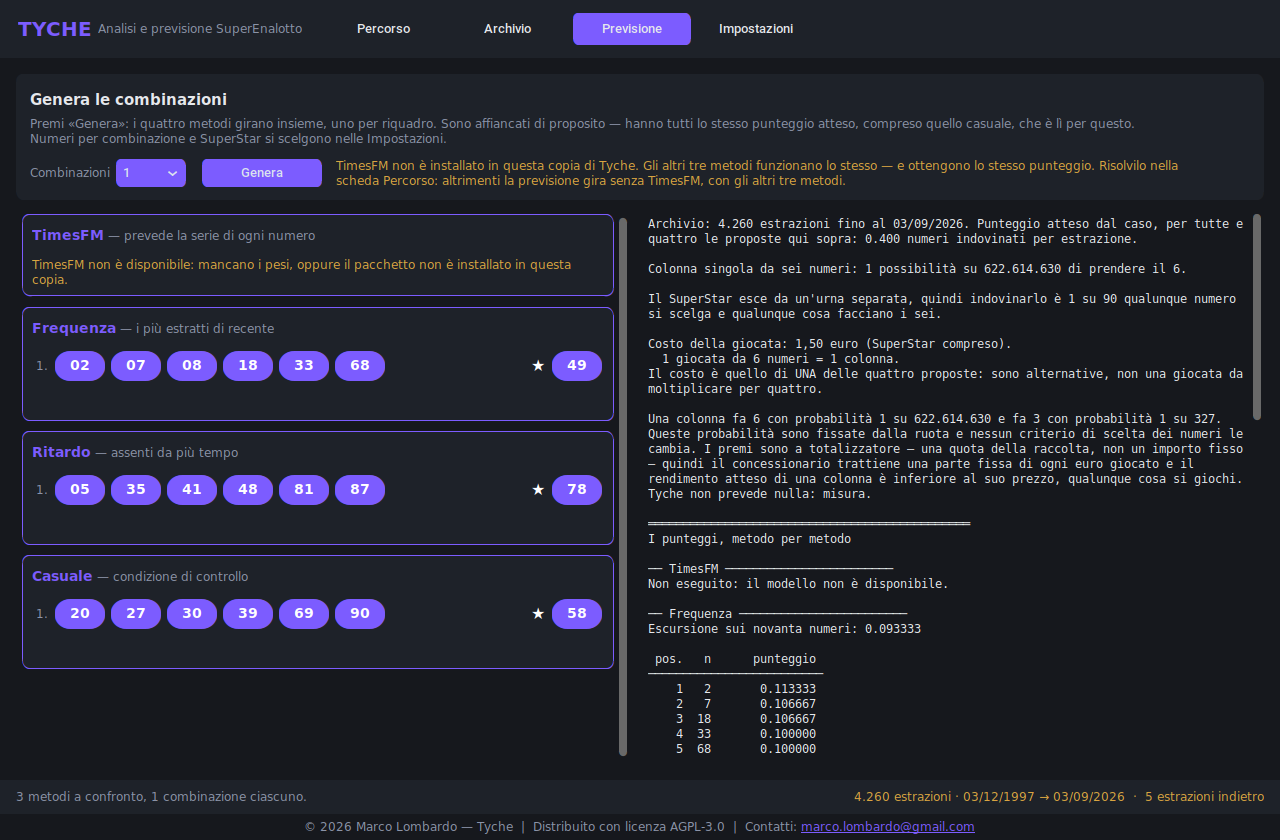
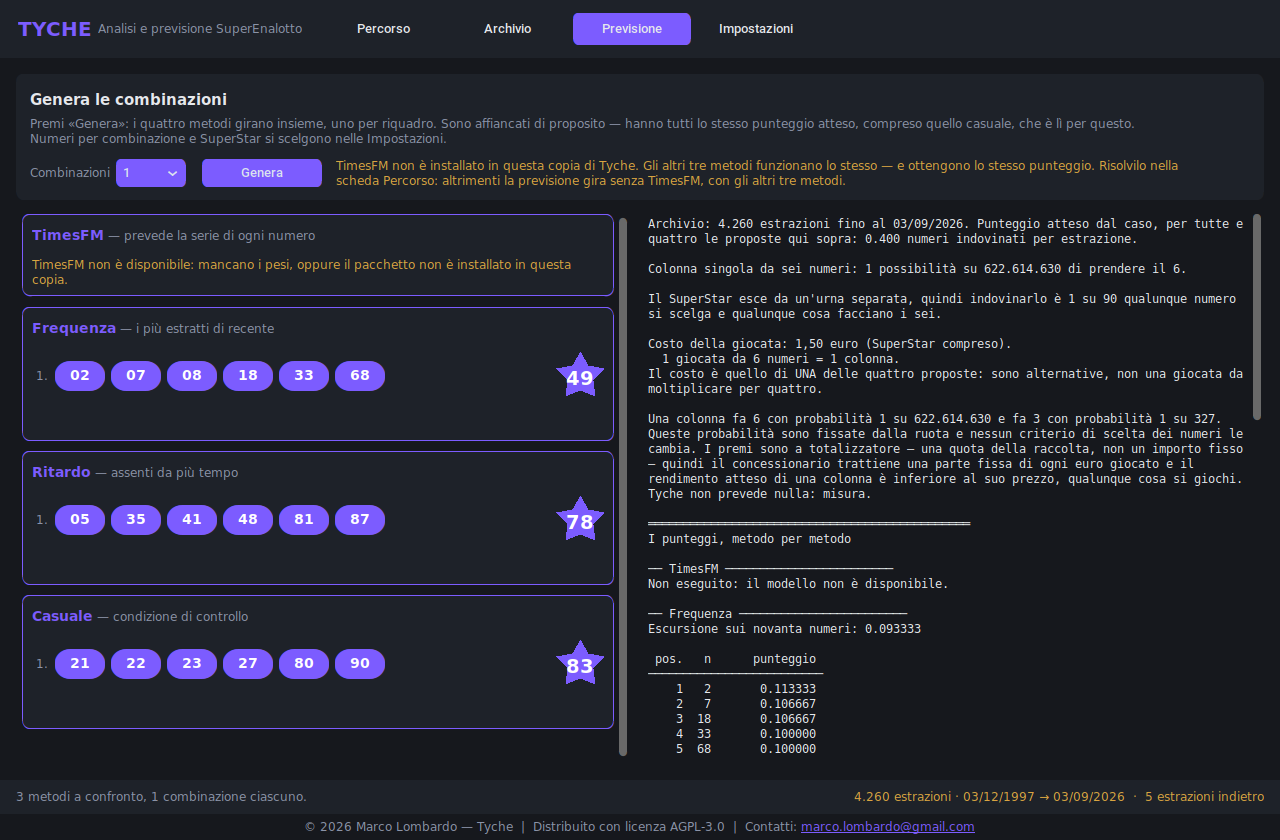
Draw the SuperStar as a star instead of naming it
A purple ball with a star character beside it says "this one is the
SuperStar" twice, in two widgets that have to be kept aligned. The badge is
now one thing: a five-pointed star in Tyche's purple with the number inside
it.

CustomTkinter draws rounded rectangles and nothing else, so it is a polygon on
a canvas. That also makes the shape testable — the test checks the geometry
rather than a character somebody's font may not carry.

Three numbers in it are not free choices. The notches stop at 55% of the
radius where a regular pentagram cuts to 38%: the elegant proportion leaves a
centre too small for two digits and the number ends up across the points. The
badge is 50px where a ball is 30, for the same reason. And the canvas is
opaque, so star_badge takes the background it sits on rather than assuming
one, or the star arrives in a grey square.

The test asserts the radii alternate — five far, five near — and not merely
that the polygon has ten vertices: a decagon has ten too and reads as a
circle. Checked by mutation, and the first version of that assertion passed
with every vertex pushed out to the same radius.

Also carries a diagnostic, not a fix, for an intermittent failure in the smoke
suite. test_timesfm_without_the_model_says_so_in_its_own_cell has now timed
out twice waiting for a prediction, both times in a full run and never alone,
and the second time the status said the worker was still on a method that
[…]

diff --git a/tests/test_gui_smoke.py b/tests/test_gui_smoke.py
@@ -137,7 +137,14 @@ def _generate(app, count: str = "1"):
         if panel._predictions:
             return panel
         time.sleep(0.02)
-    raise AssertionError(f"no prediction after waiting: {app._status.cget('text')}")
+    raise AssertionError(
+        "no prediction after waiting: "
+        f"status={app._status.cget('text')!r} busy={app._busy} "
+        f"queued={app._queue.qsize()} "
+        # Which of the two it was matters: still busy means the worker is
+        # genuinely slow, while not-busy with a full queue means the result
+        # arrived and the main loop never drained it.
+    )
 
 
 def test_window_opens_with_every_panel(app):
@@ -951,36 +958,62 @@ def test_every_settings_field_is_actually_on_the_screen(app):
         )
 
 
-def test_the_superstar_rides_on_the_numbers_row_with_a_star_and_no_label(app):
-    """One row, right-aligned, a star instead of the word.
+def test_the_superstar_is_a_purple_star_with_its_number_in_it(app):
+    """One widget on the numbers' own row, right-aligned, and star-shaped.
 
-    "SuperStar" cost seventy pixels the combinations wanted and a whole row of
-    its own; the star says the same thing in the width of a character. And it
-    is packed last so that a window too narrow for a twelve-number system
-    loses the star rather than the numbers — which is what "if there is room"
-    has to mean to be true.
+    "SuperStar" as a label cost seventy pixels the combinations wanted and a
+    row of its own. A ★ character beside an ordinary purple ball replaced it
+    and still said the same thing twice, in two widgets. CustomTkinter draws
+    rounded rectangles and nothing else, so the badge is a Tk canvas with a
+    real polygon on it — which is also what makes this test able to check the
+    *shape* rather than a character somebody's font may not have.
     """
-    import customtkinter as ctk
+    import tkinter
 
-    from gui.prediction_panel import SUPERSTAR_MARK
+    from gui.theme import ACCENT
 
     app.settings["predict_superstar"] = True
     panel = _generate(app)
 
     cell = panel._cells["frequenza"]
     first_row = cell.balls.winfo_children()[0]
-    stars = [
-        child for frame in first_row.winfo_children()
-        if isinstance(frame, ctk.CTkFrame)
-        for child in frame.winfo_children()
-        if isinstance(child, ctk.CTkLabel) and SUPERSTAR_MARK in child.cget("text")
+    canvases = [
+        child for child in first_row.winfo_children()
+        if isinstance(child, tkinter.Canvas)
     ]
-    assert stars, "the SuperStar is not on the same row as the numbers"
-    assert stars[0].cget("text_color") == "#ffffff"
+    assert canvases, "the SuperStar is not on the same row as the numbers"
+    canvas = canvases[0]
 
-    texts = _all_label_texts(cell)
-    assert not any("SuperStar" in t for t in texts), (
-        "the star is there to replace that label, not to sit beside it"
+    polygons = [i for i in canvas.find_all() if canvas.type(i) == "polygon"]
+    assert len(polygons) == 1
+    assert canvas.itemcget(polygons[0], "fill") == ACCENT
+    # Ten vertices is not enough to prove a star — a decagon has ten too, and
+    # reads as a circle. The radii have to *alternate*: five far, five near.
+    # Checked by mutation, because the first version of this assertion passed
+    # with every vertex pushed out to the same radius.
+    import math
+
+    coords = canvas.coords(polygons[0])
+    assert len(coords) == 20
+    centre = int(canvas.cget("width")) / 2
+    radii = [
+        math.hypot(x - centre, y - centre)
+        for x, y in zip(coords[::2], coords[1::2], strict=True)
+    ]
+    points, notches = radii[::2], radii[1::2]
+    assert min(points) > max(notches) * 1.4, (
+        f"the notches are not deep enough to be a star: {radii}"
+    )
+
+    texts = [i for i in canvas.find_all() if canvas.type(i) == "text"]
+    assert len(texts) == 1
+    shown = canvas.itemcget(texts[0], "text")
+    assert int(shown) == panel._predictions["frequenza"].superstar
+    assert canvas.itemcget(texts[0], "fill") == "#ffffff"
+
+    texts_in_cell = _all_label_texts(cell)
+    assert not any("SuperStar" in t for t in texts_in_cell), (
+        "the badge is there to replace that label, not to sit beside it"
     )
 
 

diff --git a/gui/widgets.py b/gui/widgets.py
@@ -18,6 +18,7 @@ undone later.
 
 from __future__ import annotations
 
+import math
 import tkinter
 
 import customtkinter as ctk
@@ -145,3 +146,58 @@ def ball_row(parent, numbers, size: int = 38) -> ctk.CTkFrame:
             font=ctk.CTkFont(family=ui_font_family(), size=14, weight="bold"),
         ).pack(side="left", padx=3)
     return row
+
+
+
+# How deep the star's notches cut. A regular pentagram is 0.382, which is
+# elegant and leaves a centre too small to put two digits in: the number would
+# sit over the points rather than inside the shape. 0.55 is a fatter star —
+# still unmistakably a star, with a body that holds "49".
+_STAR_INNER = 0.55
+
+
+def _star_points(centre: float, outer: float, inner: float, points: int = 5) -> list[float]:
+    """Flat x,y pairs for a star with one point straight up.
+
+    ``-pi/2`` is what puts that point at the top; without it the polygon comes
+    out rotated and reads as a cog.
+    """
+    coords: list[float] = []
+    for index in range(points * 2):
+        radius = outer if index % 2 == 0 else inner
+        angle = -math.pi / 2 + index * math.pi / points
+        coords += [centre + radius * math.cos(angle), centre + radius * math.sin(angle)]
+    return coords
+
+
+def star_badge(parent, number: int, size: int = 42, background: str = BG_PANEL):
+    """The SuperStar: its number inside a star in Tyche's own purple.
+
+    **A shape rather than a glyph, and a canvas because CustomTkinter has no
+    star.** ``CTkLabel`` draws a rounded rectangle and nothing else, so the
+    first version put a ★ character beside an ordinary purple ball — which
+    said "this one is the SuperStar" in two pieces where one will do. Tk's
+    canvas draws polygons natively, so the badge is a real star with the
+    number in the middle of it and no second widget to align.
+
+    ``background`` has to match what the badge sits on: a canvas is opaque and
+    a wrong colour here shows as a grey square around the star.
+    """
+    canvas = ctk.CTkCanvas(
+        parent, width=size, height=size, bg=background,
+        highlightthickness=0, bd=0,
+    )
+    centre = size / 2
+    canvas.create_polygon(
+        _star_points(centre, centre, centre * _STAR_INNER),
+        fill=ACCENT, outline="",
+    )
+    # A point-up star carries more of its area below the centre of its
+    # bounding circle, so text placed at the geometric middle reads high. The
+    # nudge is small and it is the difference between "in the star" and
+    # "floating in it".
+    canvas.create_text(
+        centre, centre + size * 0.04, text=f"{number:02d}", fill="#ffffff",
+        font=(ui_font_family(), max(11, round(size * 0.28)), "bold"),
+    )
+    return canvas

diff --git a/gui/prediction_panel.py b/gui/prediction_panel.py
@@ -59,6 +59,7 @@ from gui.widgets import (
     fit_text,
     heading_font,
     section,
+    star_badge,
 )
 
 _METHOD_LABELS = {
@@ -68,11 +69,11 @@ _METHOD_LABELS = {
     "casuale": "Casuale (la condizione di controllo)",
 }
 
-# The star that marks the SuperStar. No label beside it: a row of six purple
-# balls and a seventh needs one thing said about the seventh, and a symbol
-# says it in the width of a character where "SuperStar" costs seventy pixels
-# the combinations want.
-SUPERSTAR_MARK = "★"
+# The SuperStar's badge, in pixels. Larger than a ball (30) because a star's
+# usable middle is a fraction of its bounding box: at 30 the number would sit
+# across the points instead of inside the shape.
+SUPERSTAR_SIZE = 50
+
 
 # What each cell says under the method's name. Short: the cell is a quarter of
 # the window and the numbers are the point.
@@ -225,22 +226,20 @@ class _MethodCell(ctk.CTkFrame):
     def _star(self, line, number: int) -> None:
         """The SuperStar, on the numbers' own row and right-aligned.
 
+        **One widget, not two.** The first version put a ★ character beside an
+        ordinary purple ball, which says "this one is the SuperStar" in two
+        pieces where one will do; the badge is now a star-shaped thing with
+        the number inside it.
+
         Packed *after* the combination and to the right, which is what makes
         "if there is room" true rather than a hope: pack hands the first
         widget its requested width and this one takes what is left, so a
         window too narrow for a twelve-number system loses the star and not
         the numbers.
         """
-        star = ctk.CTkFrame(line, fg_color="transparent")
-        star.pack(side="right")
-        # Bold, and bigger than the body, which is the one exemption the
-        # "everything a reader reads is one size" rule has — and it applies
-        # here for the reason it exists: this is a glyph doing the job of an
-        # icon beside a 30px ball, not a word in a sentence.
-        ctk.CTkLabel(
-            star, text=SUPERSTAR_MARK, text_color="#ffffff", font=heading_font(16),
-        ).pack(side="left", padx=(0, 4))
-        ball_row(star, (number,), size=30).pack(side="left")
+        star_badge(line, number, size=SUPERSTAR_SIZE, background=BG_PANEL).pack(
+            side="right", padx=(6, 0),
+        )
 
 
 def _score_lines(prediction) -> list[str]:

diff --git a/core/version.py b/core/version.py
@@ -27,7 +27,7 @@ APP_TITLE = "Tyche — Analisi e previsione SuperEnalotto"
 
 # Bump by hand on a release. A frozen executable has no .py sources on disk
 # to derive a date from — the same reasoning as Argus's version.py.
-__version__ = "1.0.7"
+__version__ = "1.0.8"
 
 # google/timesfm-3.0-pytorch, released 31 August 2026: 330M parameters, native
 # multivariate forecasting, and the reason Tyche can hand TimesFM all 90

diff --git a/CLAUDE.md b/CLAUDE.md
@@ -1037,6 +1037,29 @@ version asserted only "more than one distinct value", which passes with every
 method but the random control collapsed onto the frequency count — checked by
 mutation.
 
+**The SuperStar's badge is a polygon, because CustomTkinter has no star.**
+1.0.8. `CTkLabel` draws a rounded rectangle and nothing else, so the first
+attempt was a ★ character beside an ordinary purple ball — the same thing said
+twice, in two widgets to keep aligned. `gui.widgets.star_badge` draws a real
+five-pointed star on a `CTkCanvas` with the number inside it.
+
+Three things about it are not free choices:
+
+- **`_STAR_INNER` is 0.55, not the 0.382 of a regular pentagram.** The elegant
+  proportion leaves a centre too small for two digits, and the number ends up
+  across the points rather than in the shape.
+- **The badge is 50px where a ball is 30**, for the same reason: a star's
+  usable middle is a fraction of its bounding box.
+- **The canvas is opaque**, so `background` has to match what it sits on or
+  the star arrives in a grey square. That is why `star_badge` takes it rather
+  than assuming `BG_PANEL`.
+
+`test_the_superstar_is_a_purple_star_with_its_number_in_it` checks the
+polygon's *radii alternate* — five far, five near — and not merely that it has
+ten vertices. A decagon has ten too and reads as a circle; the first version
+of that assertion passed with every vertex pushed out to the same radius,
+checked by mutation.
+
 **Beside «Genera» the strip says nothing when nothing is wrong.** 1.0.7, and
 the rule generalises: a status line next to a button is read on every visit,
 so it should earn that by carrying something to act on. `ModelStatus` takes

diff --git a/CHANGELOG.md b/CHANGELOG.md
@@ -12,6 +12,28 @@ numerazione il [versionamento semantico](https://semver.org/spec/v2.0.0.html).
 
 Niente, per ora.
 
+## [1.0.8] — 2026-09-12
+
+Il SuperStar dentro una stella, e basta.
+
+### Modificato
+
+- **Il numero del SuperStar sta dentro una stella viola**, al posto della
+  pallina viola con una stellina di fianco. Era la stessa cosa detta due
+  volte, in due pezzi da tenere allineati: adesso la forma *è* il segnale.
+
+  CustomTkinter disegna rettangoli arrotondati e nient'altro, quindi il
+  distintivo è un poligono su una tela di Tk — il che rende anche possibile
+  *verificarne la forma* invece di verificare la presenza di un carattere che
+  il font di qualcun altro potrebbe non avere. È più grande delle palline
+  perché il centro utile di una stella è una frazione del suo ingombro: a 30
+  pixel le due cifre finirebbero a cavallo delle punte invece che dentro il
+  corpo.
+
+  Le punte sono meno affilate di un pentagramma regolare — le rientranze si
+  fermano al 55% del raggio invece che al 38% — per la stessa ragione: un
+  pentagramma è più elegante e non ha un centro in cui scrivere «49».
+
 ## [1.0.7] — 2026-09-12 — `9d4ba89`
 
 La scheda Previsione rimessa in ordine: le risposte a sinistra, i conti a
